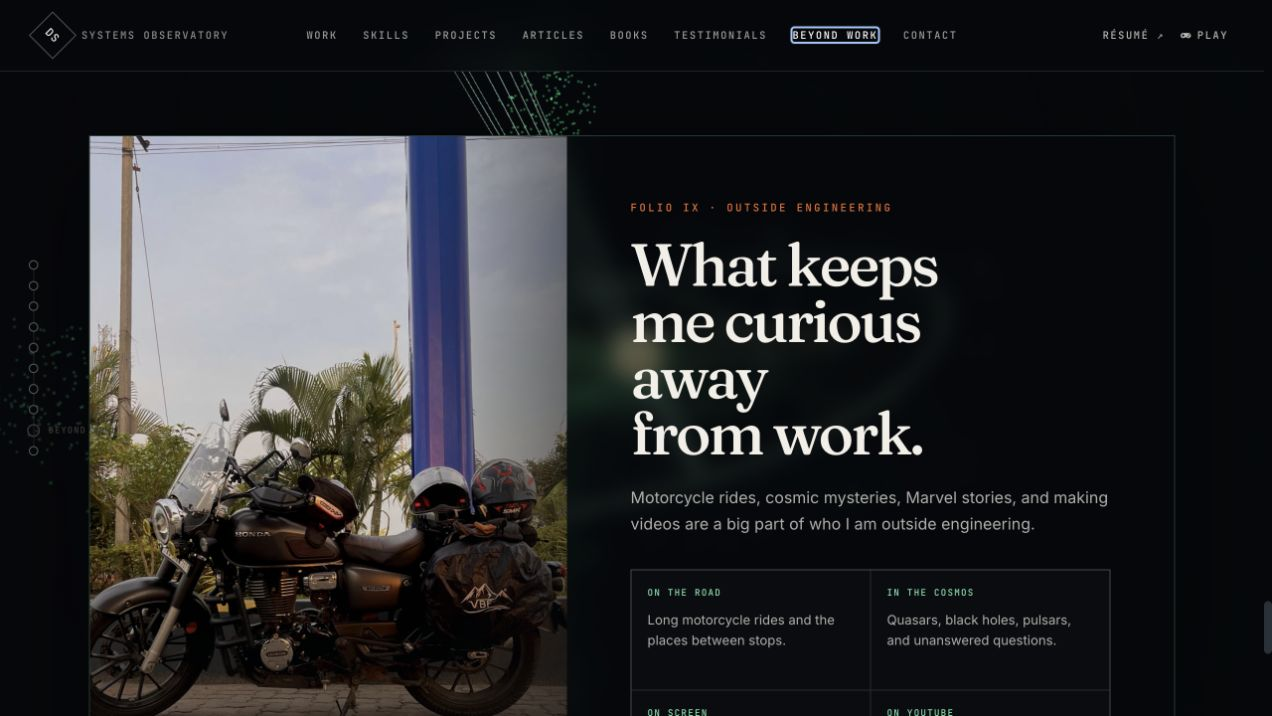
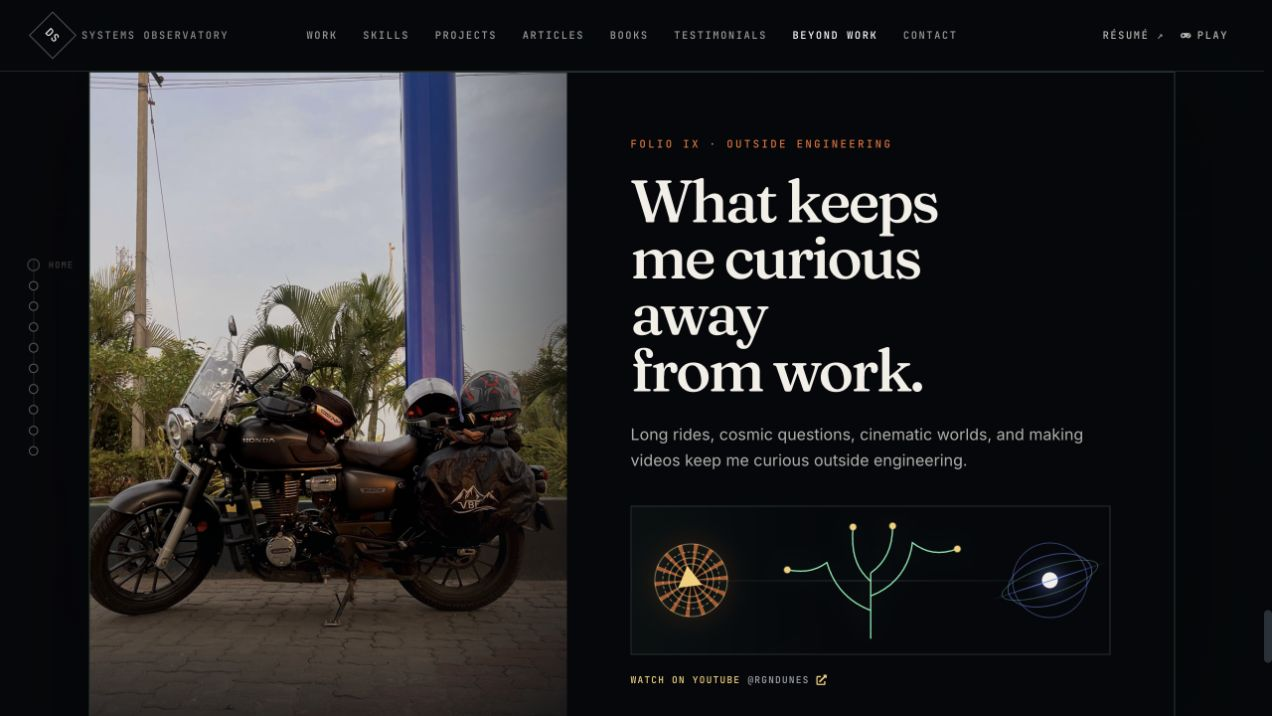
refactor(personal): replace fandom copy with visual clues
Remove literal Marvel and character references from the personal chapter. Use original energy-core, branching-timeline, and pulsar motifs so those influences are conveyed through the visual language instead.

diff --git a/src/styles/globals.css b/src/styles/globals.css
@@ -1731,42 +1731,145 @@ body:has(.observatory)::-webkit-scrollbar-thumb:hover {
 .obs-personal-copy .obs-lede {
   margin-top: 1.5rem;
 }
-.obs-interests {
+.obs-visual-clues {
+  position: relative;
   display: grid;
-  grid-template-columns: repeat(2, minmax(0, 1fr));
-  gap: 1px;
+  grid-template-columns: 0.75fr 1.5fr 0.75fr;
+  align-items: center;
+  min-height: 150px;
   margin-top: 2rem;
   border: 1px solid var(--obs-line);
-  background: var(--obs-line);
+  background:
+    linear-gradient(90deg, rgba(111, 224, 170, 0.04), transparent 42%),
+    rgba(5, 7, 10, 0.78);
+  overflow: hidden;
 }
-.obs-interests div {
-  min-height: 120px;
-  padding: 1rem;
-  background: rgba(5, 7, 10, 0.86);
+.obs-visual-clues::before {
+  content: "";
+  position: absolute;
+  inset: 50% 0 auto;
+  height: 1px;
+  background: linear-gradient(90deg, transparent, var(--obs-line), transparent);
 }
-.obs-interests dt {
-  color: #6fe0aa;
-  font:
-    500 0.58rem/1.4 var(--font-jetbrains),
-    monospace;
-  letter-spacing: 0.13em;
-  text-transform: uppercase;
+.obs-energy-core {
+  position: relative;
+  justify-self: center;
+  width: 74px;
+  height: 74px;
+  border: 1px solid rgba(246, 207, 114, 0.52);
+  border-radius: 50%;
+  background: repeating-conic-gradient(
+    from 18deg,
+    rgba(232, 106, 43, 0.72) 0 7deg,
+    transparent 7deg 26deg
+  );
+  box-shadow:
+    0 0 28px rgba(232, 106, 43, 0.18),
+    inset 0 0 20px rgba(246, 207, 114, 0.1);
+  animation: obs-core-turn 18s linear infinite;
 }
-.obs-interests dd {
-  margin-top: 0.7rem;
-  color: rgba(242, 238, 231, 0.72);
-  font-size: 0.82rem;
-  line-height: 1.55;
+.obs-energy-core::before,
+.obs-energy-core::after,
+.obs-energy-core span {
+  position: absolute;
+  content: "";
+  inset: 13px;
+  border: 1px solid rgba(246, 207, 114, 0.58);
+  border-radius: 50%;
 }
-.obs-interests a {
+.obs-energy-core::after {
+  inset: 24px;
+  border: 0;
+  border-radius: 0;
+  background: #f6cf72;
+  clip-path: polygon(50% 0, 100% 88%, 0 88%);
+  box-shadow: 0 0 22px rgba(246, 207, 114, 0.72);
+}
+.obs-energy-core span:first-child {
+  inset: 7px;
+  border-style: dashed;
+}
+.obs-energy-core span:last-child {
+  inset: 19px;
+}
+.obs-timeline-mark {
+  position: relative;
+  z-index: 1;
+  width: 100%;
+  height: 126px;
+  filter: drop-shadow(0 0 12px rgba(111, 224, 170, 0.24));
+}
+.obs-timeline-mark path,
+.obs-timeline-mark circle {
+  stroke: #6fe0aa;
+  stroke-width: 1.4;
+  vector-effect: non-scaling-stroke;
+}
+.obs-timeline-mark circle {
+  fill: #f6cf72;
+  stroke: rgba(246, 207, 114, 0.36);
+}
+.obs-pulsar-mark {
+  position: relative;
+  justify-self: center;
+  width: 76px;
+  height: 76px;
+  border: 1px solid rgba(111, 143, 255, 0.4);
+  border-radius: 50%;
+  transform: rotate(-18deg);
+}
+.obs-pulsar-mark::before,
+.obs-pulsar-mark::after,
+.obs-pulsar-mark span {
+  content: "";
+  position: absolute;
+}
+.obs-pulsar-mark::before {
+  inset: 29px;
+  border-radius: 50%;
+  background: #f2eee7;
+  box-shadow: 0 0 18px #6f8fff;
+}
+.obs-pulsar-mark::after {
+  top: 50%;
+  left: -24px;
+  right: -24px;
+  height: 1px;
+  background: linear-gradient(90deg, transparent, #6f8fff, transparent);
+}
+.obs-pulsar-mark span:first-child {
+  inset: 12px -7px;
+  border: 1px solid rgba(111, 143, 255, 0.48);
+  border-radius: 50%;
+}
+.obs-pulsar-mark span:last-child {
+  inset: 23px -14px;
+  border: 1px solid rgba(111, 224, 170, 0.32);
+  border-radius: 50%;
+}
+.obs-youtube-link {
   display: inline-flex;
   align-items: center;
   gap: 0.45rem;
+  margin-top: 1.25rem;
   color: #f6cf72;
+  font:
+    500 0.6rem/1 var(--font-jetbrains),
+    monospace;
+  letter-spacing: 0.12em;
+  text-transform: uppercase;
 }
-.obs-interests svg {
+.obs-youtube-link span {
+  color: var(--obs-dim);
+}
+.obs-youtube-link svg {
   width: 0.65rem;
   height: 0.65rem;
+}
+@keyframes obs-core-turn {
+  to {
+    transform: rotate(360deg);
+  }
 }
 .obs-contact {
   min-height: 85vh;
@@ -2199,15 +2302,22 @@ body:has(.observatory)::-webkit-scrollbar-thumb:hover {
   .obs-personal-copy h2 {
     font-size: clamp(2.6rem, 12vw, 4rem);
   }
-  .obs-interests {
-    grid-template-columns: repeat(2, minmax(0, 1fr));
-  }
-  .obs-interests div {
+  .obs-visual-clues {
+    grid-template-columns: 0.8fr 1.4fr 0.8fr;
     min-height: 126px;
-    padding: 0.85rem;
   }
-  .obs-interests dd {
-    font-size: 0.75rem;
+  .obs-energy-core,
+  .obs-pulsar-mark {
+    transform: scale(0.72);
+  }
+  .obs-energy-core {
+    animation: none;
+  }
+  .obs-pulsar-mark {
+    transform: rotate(-18deg) scale(0.72);
+  }
+  .obs-timeline-mark {
+    height: 108px;
   }
   .obs-contact-copy {
     position: relative;

diff --git a/src/components/experience/Observatory.tsx b/src/components/experience/Observatory.tsx
@@ -322,38 +322,45 @@ export default function Observatory() {
             <p className="obs-kicker">Folio {ROMAN[8]} · Outside engineering</p>
             <h2>What keeps me curious away from work.</h2>
             <p className="obs-lede">
-              Motorcycle rides, cosmic mysteries, Marvel stories, and making
-              videos are a big part of who I am outside engineering.
+              Long rides, cosmic questions, cinematic worlds, and making videos
+              keep me curious outside engineering.
             </p>
 
-            <dl className="obs-interests">
-              <div>
-                <dt>On the road</dt>
-                <dd>Long motorcycle rides and the places between stops.</dd>
+            <div className="obs-visual-clues" aria-hidden="true">
+              <div className="obs-energy-core">
+                <span />
+                <span />
               </div>
-              <div>
-                <dt>In the cosmos</dt>
-                <dd>
-                  Quasars, black holes, pulsars, and unanswered questions.
-                </dd>
+              <svg
+                className="obs-timeline-mark"
+                viewBox="0 0 180 120"
+                fill="none"
+              >
+                <path d="M90 116V53" />
+                <path d="M90 89C67 80 54 64 48 43C37 51 26 53 10 50" />
+                <path d="M90 75C114 66 127 47 130 24C143 34 156 36 173 30" />
+                <path d="M90 61C76 49 71 34 73 9" />
+                <path d="M90 53C104 43 111 29 111 8" />
+                <circle cx="10" cy="50" r="3" />
+                <circle cx="73" cy="9" r="3" />
+                <circle cx="111" cy="8" r="3" />
+                <circle cx="173" cy="30" r="3" />
+              </svg>
+              <div className="obs-pulsar-mark">
+                <span />
+                <span />
               </div>
-              <div>
-                <dt>On screen</dt>
-                <dd>Marvel Studios—especially Loki and Iron Man.</dd>
-              </div>
-              <div>
-                <dt>On YouTube</dt>
-                <dd>
-                  <a
-                    href="https://www.youtube.com/@rgndunes"
-                    target="_blank"
-                    rel="me noopener noreferrer"
-                  >
-                    Visit @rgndunes <FaExternalLinkAlt aria-hidden />
-                  </a>
-                </dd>
-              </div>
-            </dl>
+            </div>
+
+            <a
+              className="obs-youtube-link"
+              href="https://www.youtube.com/@rgndunes"
+              target="_blank"
+              rel="me noopener noreferrer"
+            >
+              Watch on YouTube <span>@rgndunes</span>
+              <FaExternalLinkAlt aria-hidden />
+            </a>
           </div>
         </div>
       </section>
